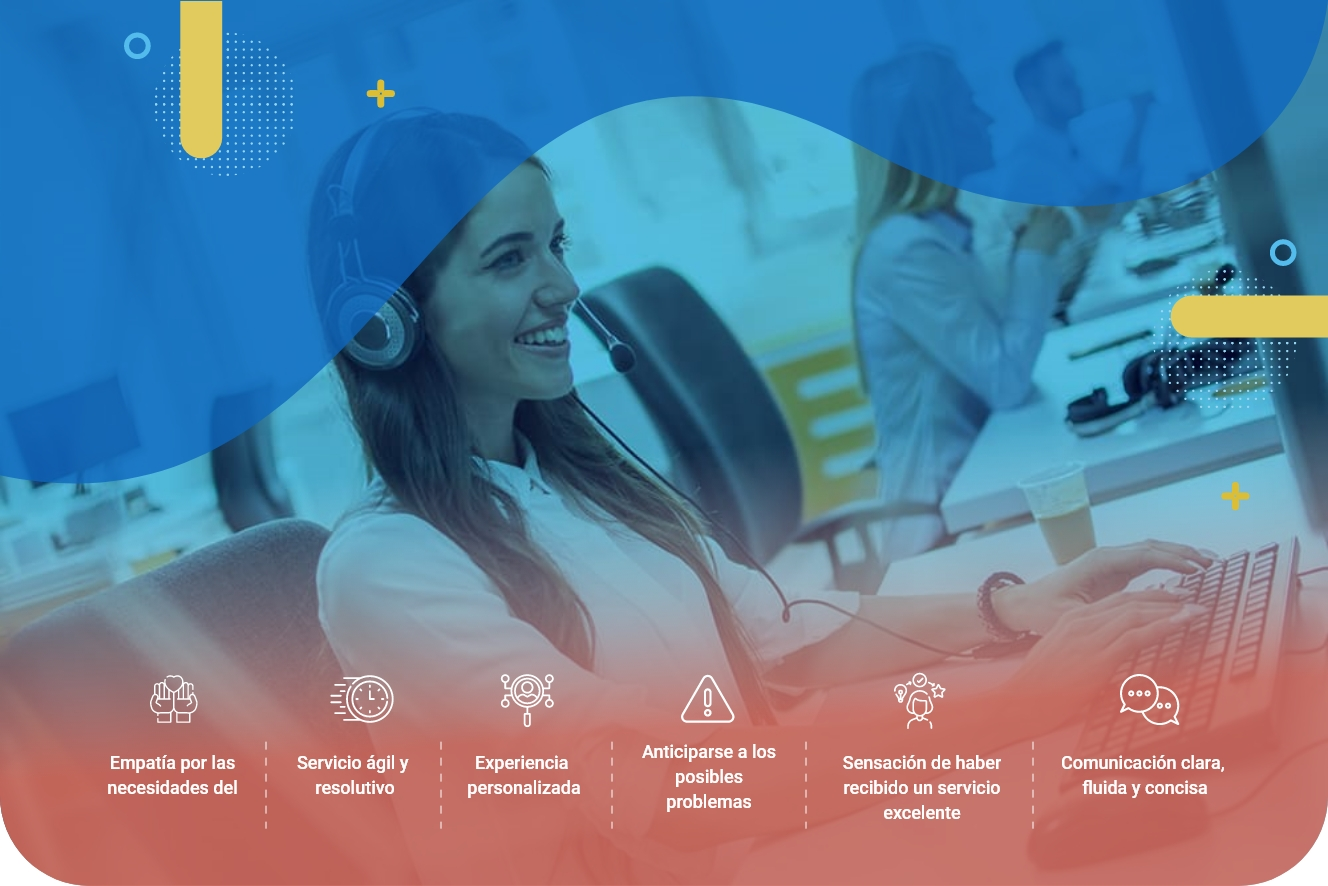
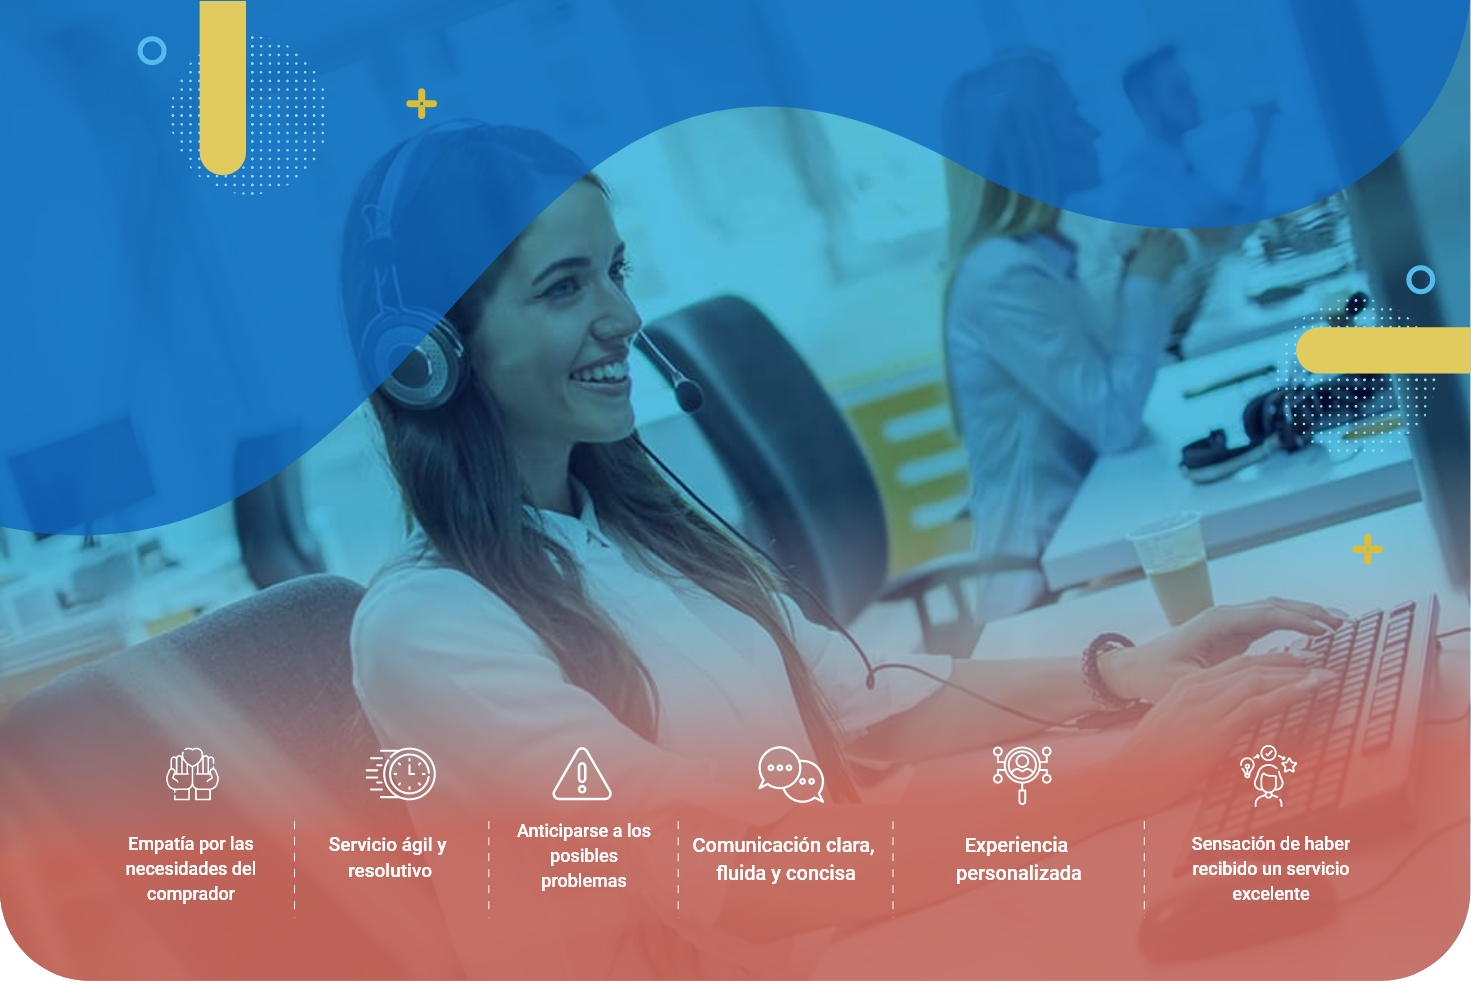
Hallazgos3

diff --git a/src/views/Tema2.vue b/src/views/Tema2.vue
@@ -12,9 +12,9 @@
       .col-lg-7.mb-4.mb-lg-0
         p La fidelización se debe entender cómo una acción de la empresa para lograr conseguir relaciones con los clientes que generen acciones redituables y continuadas con la empresa a lo largo del tiempo.
         .cajon-b.color-acento-contenido.p-3
-          p Por parte de la empresa para construir relaciones con los clientes se debe montar una estrategia conducente a que los proveedores, los clientes, distribuidores, comerciantes y públicos interesados mantengan intercambios de interés, precios y de calidad a lo largo del tiempo en la cadena de valor.
+          p #[strong Por parte de la empresa] para construir relaciones con los clientes se debe montar una estrategia conducente a que los proveedores, los clientes, distribuidores, comerciantes y públicos interesados mantengan intercambios de interés, precios y de calidad a lo largo del tiempo en la cadena de valor.
         .cajon-b.color-primario.p-3
-          p Por parte del vendedor, él debe estar en sintonía con los requerimientos de la empresa, ocupándose de resolver los problemas y las situaciones que se le presenten al cliente, puesto que esto representa valor económico y crecimiento personal para el vendedor.
+          p #[strong Por parte del vendedor], él debe estar en sintonía con los requerimientos de la empresa, ocupándose de resolver los problemas y las situaciones que se le presenten al cliente, puesto que esto representa valor económico y crecimiento personal para el vendedor.
       .col-8.col-lg-4
         figure
           img(src='@/assets/curso/tema2/img01.svg', alt='')
@@ -25,7 +25,7 @@
           figure.mnTop01
             img(src='@/assets/curso/tema2/img02.svg', alt='')
         .col-lg-8
-          p.mb-0 En la actualidad existen herramientas que contribuyen al mejoramiento de las relaciones con el cliente, lo que se denomina gestión de las relaciones, esta estrategia combina la tecnología de la información con la cultura organizacional, en la cual el principal objetivo es mantener excelentes relaciones y satisfacer las necesidades de los clientes.
+          p.mb-0 En la actualidad existen herramientas que contribuyen al mejoramiento de las relaciones con el cliente, lo que se denomina #[strong gestión de las relaciones], esta estrategia combina la tecnología de la información con la cultura organizacional, en la cual el principal objetivo es mantener excelentes relaciones y satisfacer las necesidades de los clientes.
     
     h3 Protocolo de atención en la relación con el cliente
 
@@ -66,7 +66,7 @@
         li.mb-2
           i.fas.fa-check
           p.mb-0 Para cada cargo detallar sus funciones, responsabilidades y su línea de comunicación.
-        li
+        li.mb-4
           i.fas.fa-check
           p.mb-0 Contener las instrucciones según las etapas del encuentro con el cliente.
         li.mb-0

diff --git a/src/views/Tema8.vue b/src/views/Tema8.vue
@@ -20,28 +20,28 @@
       .col-12
         .row.justify-content-around.bgImg08.rounded01.m-0.p-5.minH01
           .col-md-10.col-lg-5.BG29.text-white.rounded02.p-5
-            p.my-5.mTop01 Sistema de gestión gerencial: de ahí salen las decisiones que dan forma a los momentos de verdad y la conformación de los ciclos de servicios.
+            p.my-5.mTop01 #[strong Sistema de gestión gerencial:] de ahí salen las decisiones que dan forma a los momentos de verdad y la conformación de los ciclos de servicios.
             figure.my-3.mTop01
               img.sz01(src='@/assets/curso/tema1/img05.svg', alt='')
           .col-5
       .col-12
         .row.justify-content-around.bgImg09.rounded01.m-0.p-5.minH01
           .col-md-10.col-lg-5.BG29.text-white.rounded02.p-5
-            p.my-5.mTop01 Sistema conformado por las normas y procedimientos: son las reglas para seguir en el encuentro con el cliente.
+            p.my-5.mTop01 #[strong Sistema conformado por las normas y procedimientos:] son las reglas para seguir en el encuentro con el cliente.
             figure.my-3.mTop01
               img.sz01(src='@/assets/curso/tema1/img05.svg', alt='')
           .col-5
       .col-12
         .row.justify-content-around.bgImg10.rounded01.m-0.p-5.minH01
           .col-md-10.col-lg-5.BG29.text-white.rounded02.p-5
-            p.my-5.mTop01 Sistema de infraestructura técnica: los equipos que la empresa necesita para poder operar en la atención con el cliente.
+            p.my-5.mTop01 #[strong Sistema de infraestructura técnica:] los equipos que la empresa necesita para poder operar en la atención con el cliente.
             figure.my-3.mTop01
               img.sz01(src='@/assets/curso/tema1/img05.svg', alt='')
           .col-5
       .col-12
         .row.justify-content-around.bgImg11.rounded01.m-0.p-5.minH01
           .col-md-10.col-lg-5.BG29.text-white.rounded02.p-5
-            p.my-5.mTop01 Sistema de interacción social: todo el componente humano alrededor del encuentro con el cliente.
+            p.my-5.mTop01 #[strong Sistema de interacción social:] todo el componente humano alrededor del encuentro con el cliente.
             figure.my-3.mTop01
               img.sz01(src='@/assets/curso/tema1/img05.svg', alt='')
           .col-5

diff --git a/src/views/Tema1.vue b/src/views/Tema1.vue
@@ -141,16 +141,16 @@
         p.mb-0 El solo deseo de atender bien a la persona no es suficiente, la empresa debe contar de manera organizada para hacer efectiva las PQR que realicen los clientes.
       
       .tarjeta.color-acento-botones.bg-white.p-3(x="39.7%" y="71%" numero="3")
-        p.mb-0 El trato personalizado de frente al cliente y enfocado en sus necesidades deja gratas experiencias, también puede realizarse utilizando la omnicanalidad dando respuestas inmediatas.
+        p.mb-0 El vendedor debe ser proactivo, adelantarse a situaciones para dar solución antes que el cliente lo detecte., por ejemplo, si un producto que se vendió tiene fallas, recogerlo cuanto antes.
 
       .tarjeta.color-acento-botones.bg-white.p-3(x="53.2%" y="71%" numero="4")
-        p.mb-0 El vendedor debe ser proactivo, adelantarse a situaciones para dar solución antes que el cliente lo detecte., por ejemplo, si un producto que se vendió tiene fallas, recogerlo cuanto antes.
+        p.mb-0 El servicio ayuda a la empresa y el vendedor a tener una relación duradera y rentable.
       
       .tarjeta.color-acento-botones.bg-white.p-3(x="69.2%" y="71%" numero="5")
-        p.mb-0 Problema resuelto a satisfacción, es cliente que vuelve a comprar.
+        p.mb-0 El trato personalizado de frente al cliente y enfocado en sus necesidades deja gratas experiencias, también puede realizarse utilizando la omnicanalidad dando respuestas inmediatas.
 
       .tarjeta.color-acento-botones.bg-white.p-3(x="86.5%" y="71%" numero="6")
-        p.mb-0 El servicio ayuda a la empresa y el vendedor a tener una relación duradera y rentable.
+        p.mb-0 Problema resuelto a satisfacción, es cliente que vuelve a comprar.
   
   .container.tarjeta.tarjeta--blanca.p-4.p-md-5.roundedEnd
 

diff --git a/src/styles/_custom.sass b/src/styles/_custom.sass
@@ -248,3 +248,7 @@ button.ColHid
 
 .tabs-a.color-acento-contenido .tabs-a__tab__selected
   color: white !important
+
+.linea-tiempo-c__header__item .linea-tiempo-c__header__item__year
+  font-size: 1em !important
+  padding: 0 8px 0 8px !important
